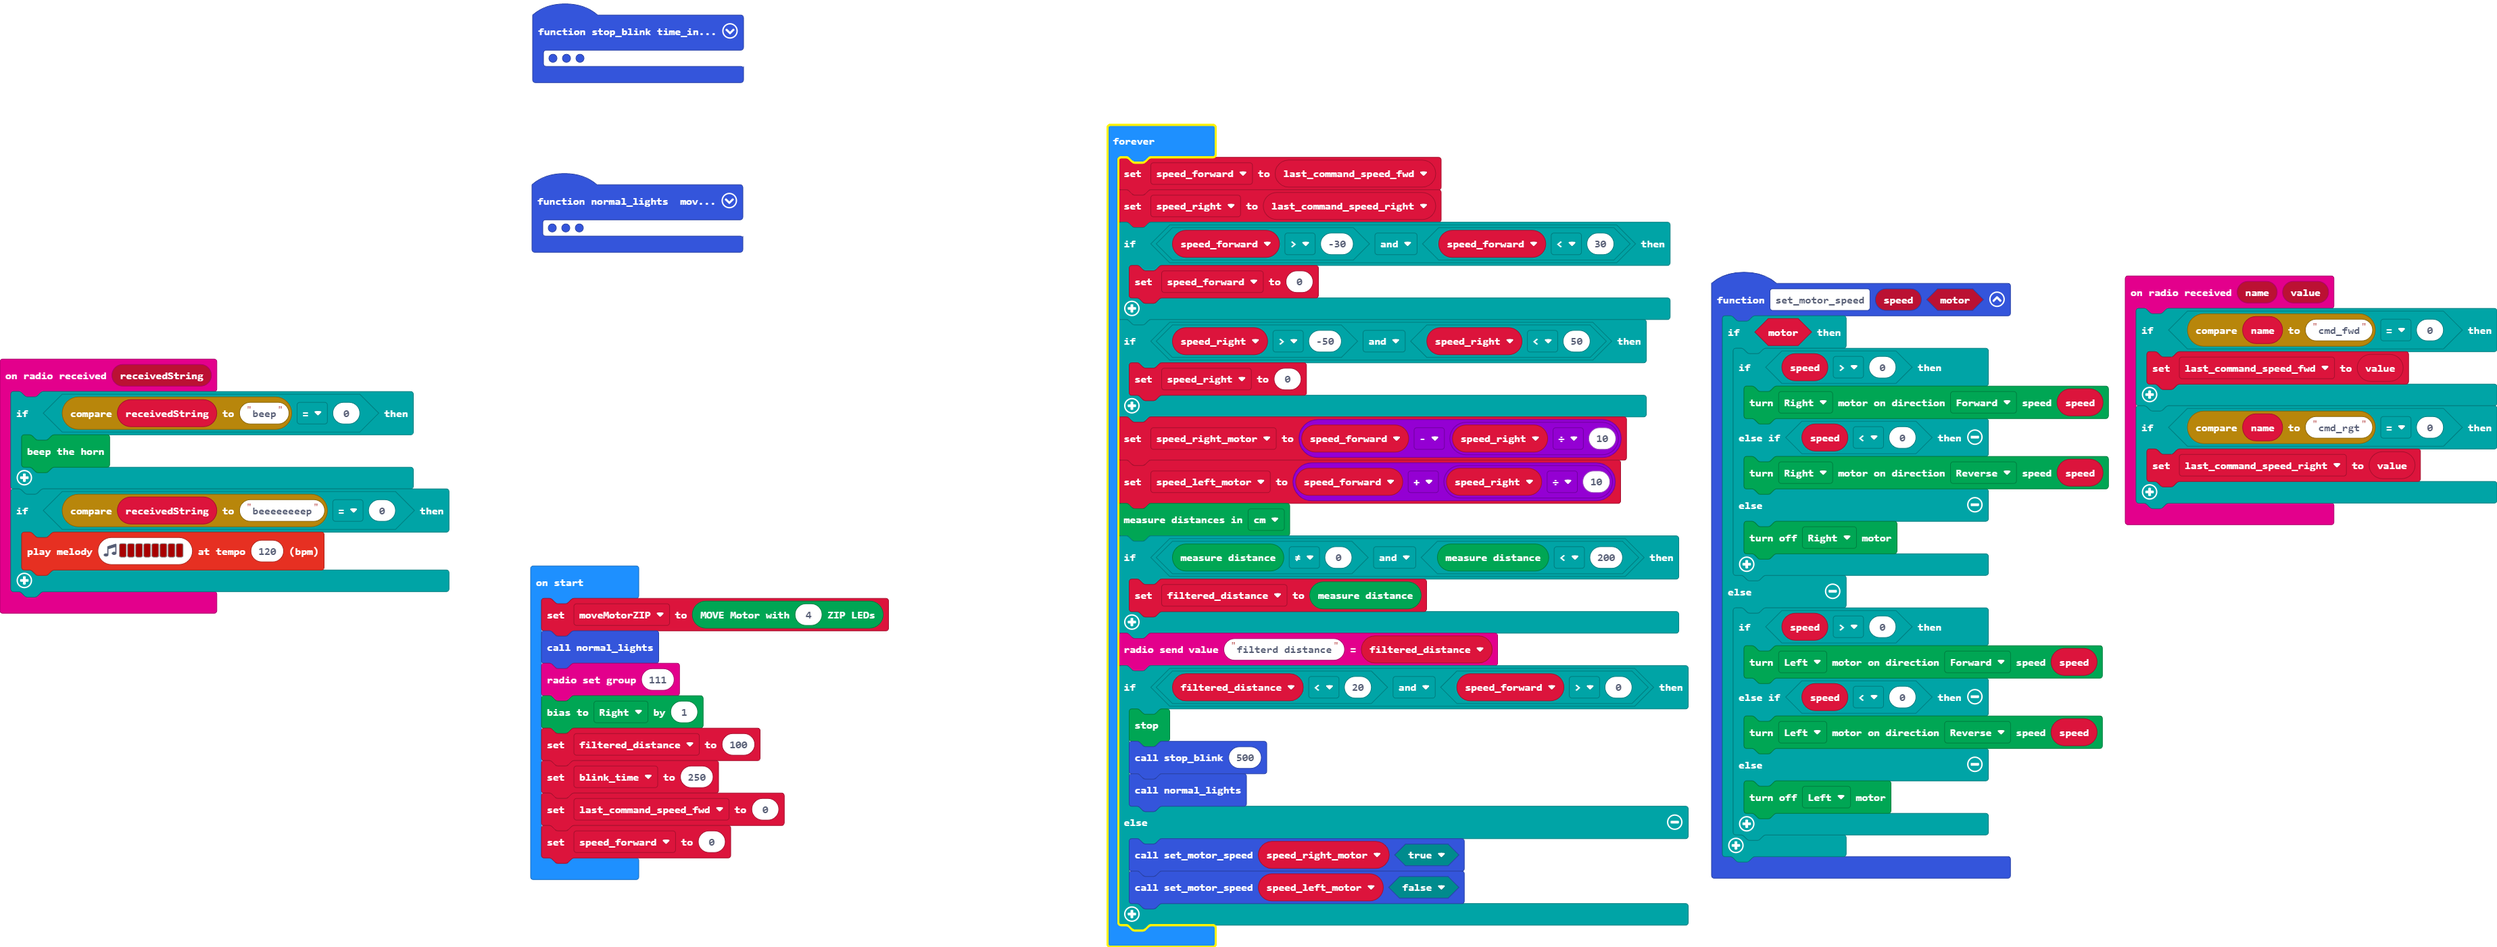
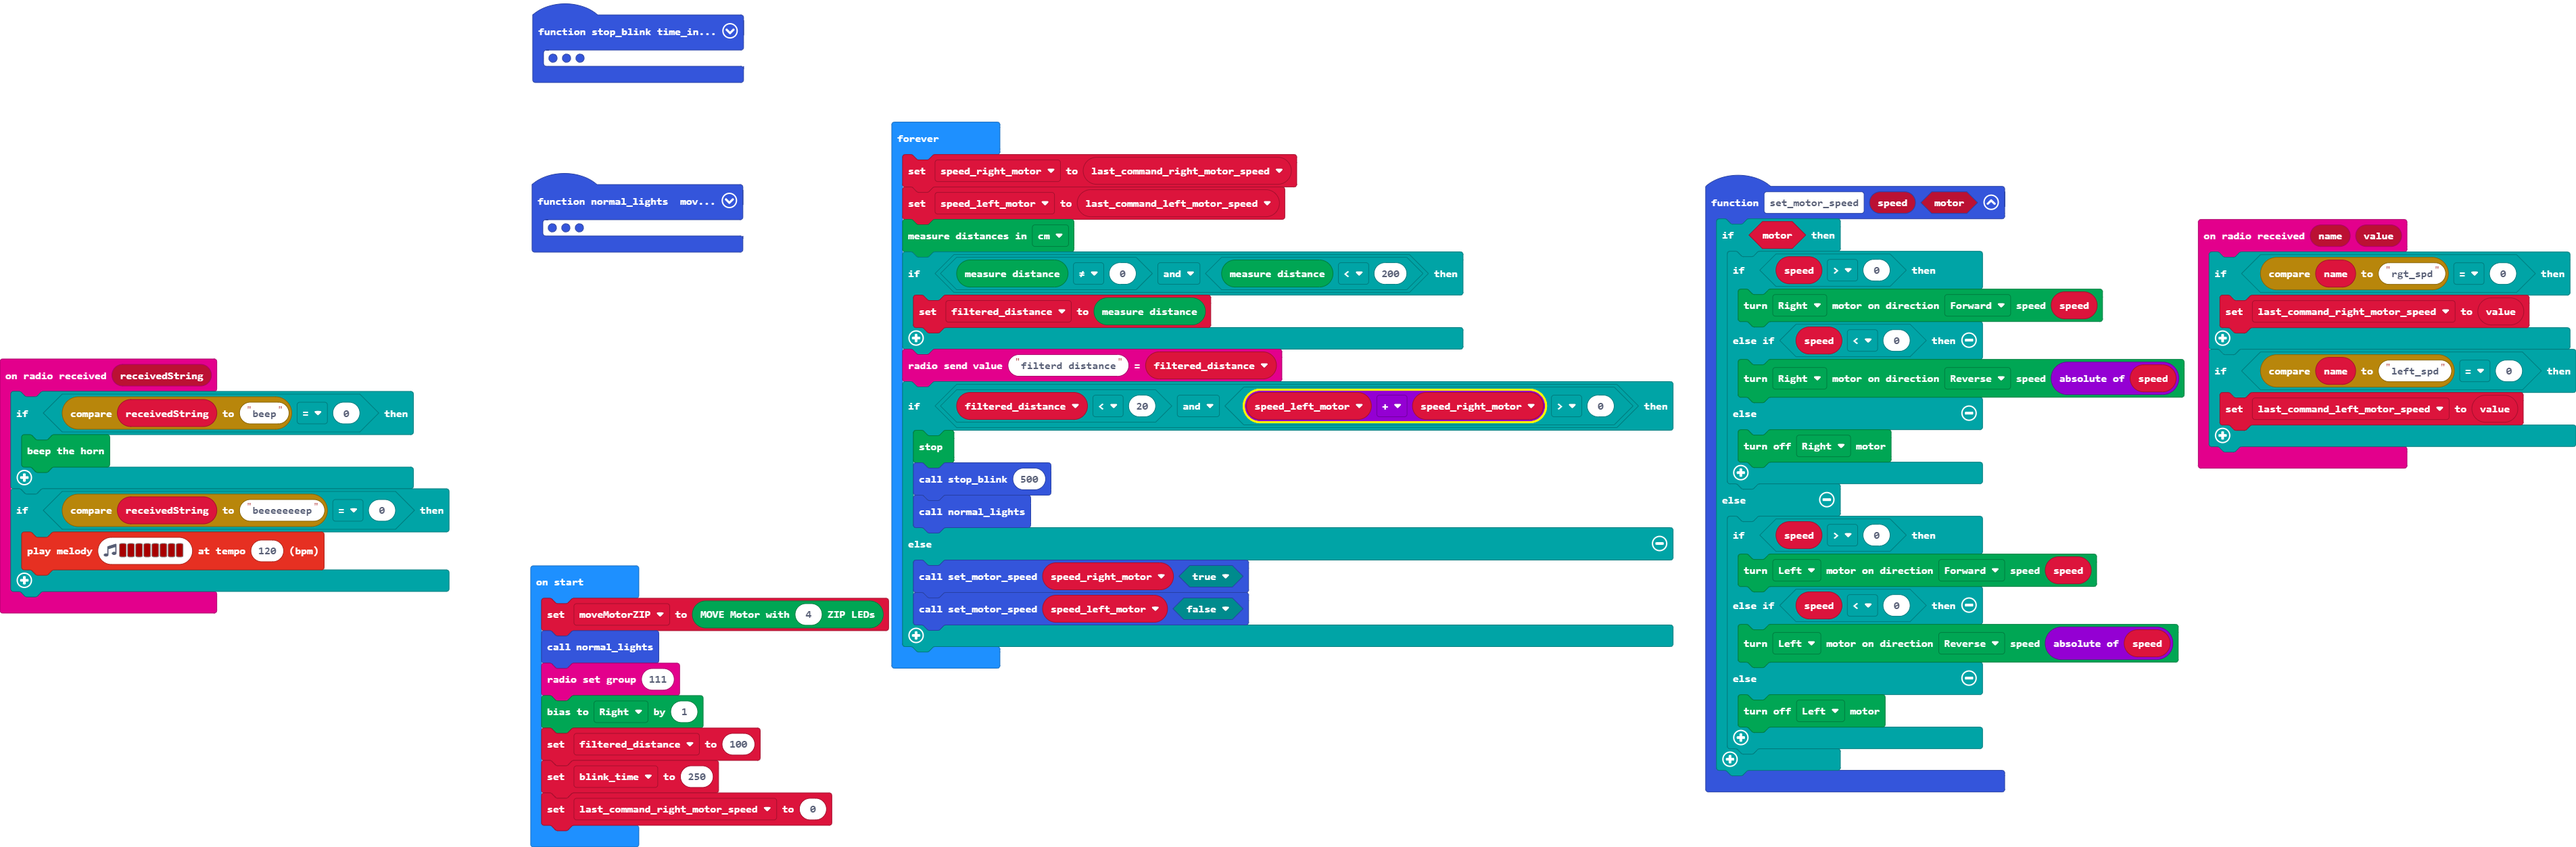
Update main.blocks, main.ts, main.py

diff --git a/main.ts b/main.ts
@@ -3,7 +3,7 @@ function set_motor_speed (speed: number, motor: boolean) {
         if (speed > 0) {
             Kitronik_Move_Motor.motorOn(Kitronik_Move_Motor.Motors.MotorRight, Kitronik_Move_Motor.MotorDirection.Forward, speed)
         } else if (speed < 0) {
-            Kitronik_Move_Motor.motorOn(Kitronik_Move_Motor.Motors.MotorRight, Kitronik_Move_Motor.MotorDirection.Reverse, speed)
+            Kitronik_Move_Motor.motorOn(Kitronik_Move_Motor.Motors.MotorRight, Kitronik_Move_Motor.MotorDirection.Reverse, Math.abs(speed))
         } else {
             Kitronik_Move_Motor.motorOff(Kitronik_Move_Motor.Motors.MotorRight)
         }
@@ -11,7 +11,7 @@ function set_motor_speed (speed: number, motor: boolean) {
         if (speed > 0) {
             Kitronik_Move_Motor.motorOn(Kitronik_Move_Motor.Motors.MotorLeft, Kitronik_Move_Motor.MotorDirection.Forward, speed)
         } else if (speed < 0) {
-            Kitronik_Move_Motor.motorOn(Kitronik_Move_Motor.Motors.MotorLeft, Kitronik_Move_Motor.MotorDirection.Reverse, speed)
+            Kitronik_Move_Motor.motorOn(Kitronik_Move_Motor.Motors.MotorLeft, Kitronik_Move_Motor.MotorDirection.Reverse, Math.abs(speed))
         } else {
             Kitronik_Move_Motor.motorOff(Kitronik_Move_Motor.Motors.MotorLeft)
         }
@@ -48,18 +48,17 @@ radio.onReceivedString(function (receivedString) {
     }
 })
 radio.onReceivedValue(function (name, value) {
-    if (name.compare("cmd_fwd") == 0) {
-        last_command_speed_fwd = value
+    if (name.compare("rgt_spd") == 0) {
+        last_command_right_motor_speed = value
     }
-    if (name.compare("cmd_rgt") == 0) {
-        last_command_speed_right = value
+    if (name.compare("left_spd") == 0) {
+        last_command_left_motor_speed = value
     }
 })
 let speed_left_motor = 0
 let speed_right_motor = 0
-let speed_right = 0
-let last_command_speed_right = 0
-let last_command_speed_fwd = 0
+let last_command_left_motor_speed = 0
+let last_command_right_motor_speed = 0
 let blink_time = 0
 let moveMotorZIP: Kitronik_Move_Motor.MoveMotorZIP = null
 moveMotorZIP = Kitronik_Move_Motor.createMoveMotorZIPLED(4)
@@ -68,25 +67,16 @@ radio.setGroup(111)
 Kitronik_Move_Motor.motorBalance(Kitronik_Move_Motor.SpinDirections.Right, 1)
 let filtered_distance = 100
 blink_time = 250
-last_command_speed_fwd = 0
-let speed_forward = 0
+last_command_right_motor_speed = 0
 basic.forever(function () {
-    speed_forward = last_command_speed_fwd
-    speed_right = last_command_speed_right
-    if (speed_forward > -30 && speed_forward < 30) {
-        speed_forward = 0
-    }
-    if (speed_right > -50 && speed_right < 50) {
-        speed_right = 0
-    }
-    speed_right_motor = speed_forward - speed_right / 10
-    speed_left_motor = speed_forward + speed_right / 10
+    speed_right_motor = last_command_right_motor_speed
+    speed_left_motor = last_command_left_motor_speed
     Kitronik_Move_Motor.setUltrasonicUnits(Kitronik_Move_Motor.Units.Centimeters)
     if (Kitronik_Move_Motor.measure() != 0 && Kitronik_Move_Motor.measure() < 200) {
         filtered_distance = Kitronik_Move_Motor.measure()
     }
     radio.sendValue("filterd distance", filtered_distance)
-    if (filtered_distance < 20 && speed_forward > 0) {
+    if (filtered_distance < 20 && speed_left_motor + speed_right_motor > 0) {
         Kitronik_Move_Motor.stop()
         stop_blink(500)
         normal_lights()

diff --git a/main.py b/main.py
@@ -1,100 +1,105 @@
-function set_motor_speed (speed: number, motor: boolean) {
-    if (speed > 0) {
-        if (motor) {
-            Kitronik_Move_Motor.motorOn(Kitronik_Move_Motor.Motors.MotorLeft, Kitronik_Move_Motor.MotorDirection.Forward, speed)
-        } else {
-            Kitronik_Move_Motor.motorOn(Kitronik_Move_Motor.Motors.MotorRight, Kitronik_Move_Motor.MotorDirection.Forward, speed)
-        }
-    } else {
-        if (!(motor)) {
-            Kitronik_Move_Motor.motorOn(Kitronik_Move_Motor.Motors.MotorRight, Kitronik_Move_Motor.MotorDirection.Forward, speed)
-        } else {
-            Kitronik_Move_Motor.motorOn(Kitronik_Move_Motor.Motors.MotorRight, Kitronik_Move_Motor.MotorDirection.Forward, speed)
-        }
-    }
-}
-function normal_lights () {
+def set_motor_speed(speed: number, motor: bool):
+    if motor:
+        if speed > 0:
+            Kitronik_Move_Motor.motor_on(Kitronik_Move_Motor.Motors.MOTOR_RIGHT,
+                Kitronik_Move_Motor.MotorDirection.FORWARD,
+                speed)
+        elif speed < 0:
+            Kitronik_Move_Motor.motor_on(Kitronik_Move_Motor.Motors.MOTOR_RIGHT,
+                Kitronik_Move_Motor.MotorDirection.REVERSE,
+                speed)
+        else:
+            Kitronik_Move_Motor.motor_off(Kitronik_Move_Motor.Motors.MOTOR_RIGHT)
+    else:
+        if speed > 0:
+            Kitronik_Move_Motor.motor_on(Kitronik_Move_Motor.Motors.MOTOR_LEFT,
+                Kitronik_Move_Motor.MotorDirection.FORWARD,
+                speed)
+        elif speed < 0:
+            Kitronik_Move_Motor.motor_on(Kitronik_Move_Motor.Motors.MOTOR_LEFT,
+                Kitronik_Move_Motor.MotorDirection.REVERSE,
+                speed)
+        else:
+            Kitronik_Move_Motor.motor_off(Kitronik_Move_Motor.Motors.MOTOR_LEFT)
+def normal_lights():
+    global moveMotorZIP
     moveMotorZIP.clear()
-    moveMotorZIP = Kitronik_Move_Motor.createMoveMotorZIPLED(4)
-    moveMotorZIP.setZipLedColor(0, Kitronik_Move_Motor.colors(Kitronik_Move_Motor.ZipLedColors.White))
-    moveMotorZIP.setZipLedColor(1, Kitronik_Move_Motor.colors(Kitronik_Move_Motor.ZipLedColors.White))
-    moveMotorZIP.setZipLedColor(2, Kitronik_Move_Motor.colors(Kitronik_Move_Motor.ZipLedColors.Orange))
-    moveMotorZIP.setZipLedColor(3, Kitronik_Move_Motor.colors(Kitronik_Move_Motor.ZipLedColors.Orange))
+    moveMotorZIP = Kitronik_Move_Motor.create_move_motor_zipled(4)
+    moveMotorZIP.set_zip_led_color(0,
+        Kitronik_Move_Motor.colors(Kitronik_Move_Motor.ZipLedColors.WHITE))
+    moveMotorZIP.set_zip_led_color(1,
+        Kitronik_Move_Motor.colors(Kitronik_Move_Motor.ZipLedColors.WHITE))
+    moveMotorZIP.set_zip_led_color(2,
+        Kitronik_Move_Motor.colors(Kitronik_Move_Motor.ZipLedColors.ORANGE))
+    moveMotorZIP.set_zip_led_color(3,
+        Kitronik_Move_Motor.colors(Kitronik_Move_Motor.ZipLedColors.ORANGE))
     moveMotorZIP.show()
-}
-function stop_blink (time_in_ms: number) {
+def stop_blink(time_in_ms: number):
     moveMotorZIP.clear()
-    moveMotorZIP.setZipLedColor(0, Kitronik_Move_Motor.colors(Kitronik_Move_Motor.ZipLedColors.White))
-    moveMotorZIP.setZipLedColor(1, Kitronik_Move_Motor.colors(Kitronik_Move_Motor.ZipLedColors.White))
-    moveMotorZIP.setZipLedColor(2, Kitronik_Move_Motor.colors(Kitronik_Move_Motor.ZipLedColors.Red))
-    moveMotorZIP.setZipLedColor(3, Kitronik_Move_Motor.colors(Kitronik_Move_Motor.ZipLedColors.Red))
-    for (let index = 0; index < time_in_ms / blink_time; index++) {
+    moveMotorZIP.set_zip_led_color(0,
+        Kitronik_Move_Motor.colors(Kitronik_Move_Motor.ZipLedColors.WHITE))
+    moveMotorZIP.set_zip_led_color(1,
+        Kitronik_Move_Motor.colors(Kitronik_Move_Motor.ZipLedColors.WHITE))
+    moveMotorZIP.set_zip_led_color(2,
+        Kitronik_Move_Motor.colors(Kitronik_Move_Motor.ZipLedColors.RED))
+    moveMotorZIP.set_zip_led_color(3,
+        Kitronik_Move_Motor.colors(Kitronik_Move_Motor.ZipLedColors.RED))
+    for index in range(time_in_ms / blink_time):
         moveMotorZIP.rotate(2)
-        music.playTone(659, music.beat(BeatFraction.Whole))
+        music.play_tone(659, music.beat(BeatFraction.WHOLE))
         basic.pause(blink_time)
         moveMotorZIP.show()
-    }
-}
-function ORR (text: string, num: number) {
-	
-}
-radio.onReceivedString(function (receivedString) {
-    if (receivedString.compare("beep") == 0) {
-        Kitronik_Move_Motor.beepHorn()
-    }
-    if (receivedString.compare("beeeeeeeep") == 0) {
-        music.playMelody("C5 C5 C5 C5 C5 C5 C5 C5 ", 120)
-    }
-})
-radio.onReceivedValue(function (name, value) {
-    if (text.compare("cmd_fwd") == 0) {
-        last_command_speed_fwd = num
-    }
-    if (text.compare("cmd_rgt") == 0) {
-        last_command_speed_right = num
-    }
-})
-function filter_distance () {
-    Kitronik_Move_Motor.setUltrasonicUnits(Kitronik_Move_Motor.Units.Centimeters)
-    if (Kitronik_Move_Motor.measure() != 0 && Kitronik_Move_Motor.measure() < 200) {
-        filtered_distance = Kitronik_Move_Motor.measure()
-    }
-    radio.sendValue("filterd distance", filtered_distance)
-    radio.sendValue("measured distance", Kitronik_Move_Motor.measure())
-}
-let speed_left_motor = 0
-let speed_right_motor = 0
-let speed_right = 0
-let last_command_speed_right = 0
-let last_command_speed_fwd = 0
-let blink_time = 0
-let filtered_distance = 0
-let moveMotorZIP: Kitronik_Move_Motor.MoveMotorZIP = null
-moveMotorZIP = Kitronik_Move_Motor.createMoveMotorZIPLED(4)
+
+def on_received_string(receivedString):
+    if receivedString.compare("beep") == 0:
+        Kitronik_Move_Motor.beep_horn()
+    if receivedString.compare("beeeeeeeep") == 0:
+        music.play_melody("C5 C5 C5 C5 C5 C5 C5 C5 ", 120)
+radio.on_received_string(on_received_string)
+
+def on_received_value(name, value):
+    global last_command_speed_fwd, last_command_speed_right
+    if name.compare("cmd_fwd") == 0:
+        last_command_speed_fwd = value
+    if name.compare("cmd_rgt") == 0:
+        last_command_speed_right = value
+radio.on_received_value(on_received_value)
+
+speed_left_motor = 0
+speed_right_motor = 0
+speed_right = 0
+last_command_speed_right = 0
+last_command_speed_fwd = 0
+blink_time = 0
+moveMotorZIP: Kitronik_Move_Motor.MoveMotorZIP = None
+moveMotorZIP = Kitronik_Move_Motor.create_move_motor_zipled(4)
 normal_lights()
-radio.setGroup(111)
-Kitronik_Move_Motor.motorBalance(Kitronik_Move_Motor.SpinDirections.Right, 1)
+radio.set_group(111)
+Kitronik_Move_Motor.motor_balance(Kitronik_Move_Motor.SpinDirections.RIGHT, 1)
 filtered_distance = 100
 blink_time = 250
 last_command_speed_fwd = 0
-let speed_forward = 0
-basic.forever(function () {
+speed_forward = 0
+
+def on_forever():
+    global speed_forward, speed_right, speed_right_motor, speed_left_motor, filtered_distance
     speed_forward = last_command_speed_fwd
     speed_right = last_command_speed_right
-    if (speed_forward > -30 && speed_forward < 30) {
+    if speed_forward > -30 and speed_forward < 30:
         speed_forward = 0
-    }
-    if (speed_right > -50 && speed_right < 50) {
+    if speed_right > -30 and speed_right < 30:
         speed_right = 0
-    }
-    speed_right_motor = speed_forward - speed_right / 2
-    speed_left_motor = speed_forward + speed_right / 2
-    filter_distance()
-    if (filtered_distance < 20 && speed_forward > 0) {
+    speed_right_motor = Math.round(speed_forward - speed_right / 3)
+    speed_left_motor = Math.round(speed_forward + speed_right / 3)
+    Kitronik_Move_Motor.set_ultrasonic_units(Kitronik_Move_Motor.Units.CENTIMETERS)
+    if Kitronik_Move_Motor.measure() != 0 and Kitronik_Move_Motor.measure() < 200:
+        filtered_distance = Kitronik_Move_Motor.measure()
+    radio.send_value("filterd distance", filtered_distance)
+    if filtered_distance < 20 and speed_forward > 0:
         Kitronik_Move_Motor.stop()
         stop_blink(500)
         normal_lights()
-    } else {
-        set_motor_speed(speed_forward, true)
-    }
-})
+    else:
+        set_motor_speed(speed_right_motor, True)
+        set_motor_speed(speed_left_motor, False)
+basic.forever(on_forever)
